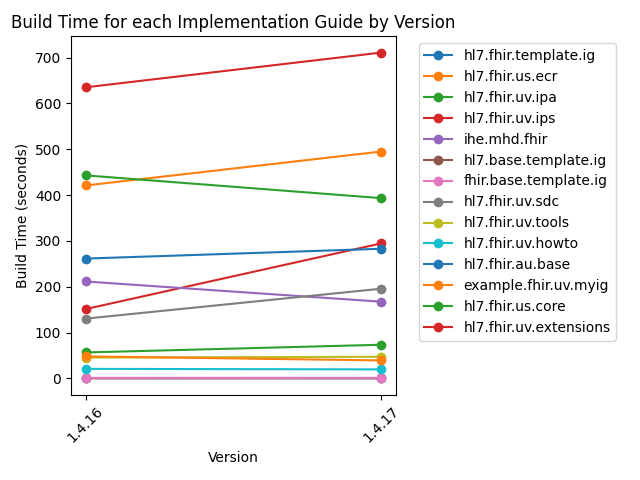
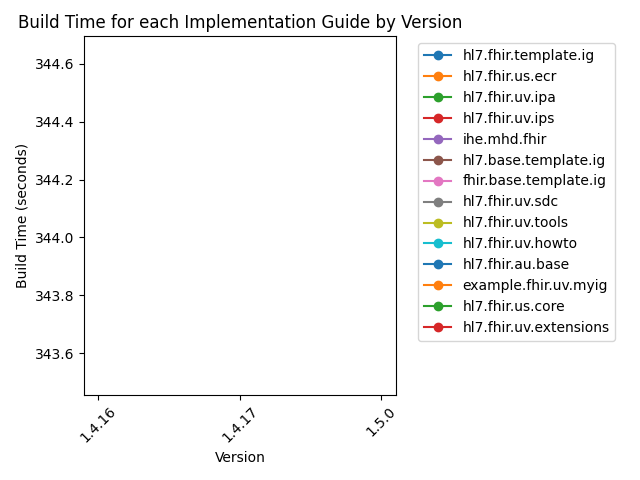
update to plot-ig-builder and other scripts

diff --git a/scripts/plot-ig-builder.py b/scripts/plot-ig-builder.py
@@ -52,19 +52,27 @@ def main(source):
             build_times[guide_name][version] = time
 
     # Create the visualization
+    # Create a figure with a specific size (16x9 inches here) and an axes object
+    # Create a figure with the 'constrained_layout' feature enabled.
+    fig, ax = plt.subplots(figsize=(16, 9), constrained_layout=True)
+
     for guide, times in build_times.items():
         sorted_items = sorted(times.items())
         versions = [item[0] for item in sorted_items]
         timings = [item[1] for item in sorted_items]
 
-        plt.plot(versions, timings, marker='o', label=guide)
+        ax.plot(versions, timings, marker='o', label=guide)
 
-    plt.ylabel('Build Time (seconds)')  # Update label to reflect new units
-    plt.xlabel('Version')
-    plt.title('Build Time for each Implementation Guide by Version')
-    plt.legend(bbox_to_anchor=(1.05, 1), loc='upper left')
-    plt.xticks(rotation=45)
-    plt.tight_layout()
+    # Set labels, legend, etc.
+    ax.set_ylabel('Build Time (seconds)')
+    ax.set_xlabel('Version')
+    ax.set_title('Build Time for each Implementation Guide by Version')
+
+    plt.xticks(rotation=45)  # this still works on the current figure
+    plt.tight_layout()  # this affects the current figure, so it's okay
+
+    # If you are saving the figure, use the following command:
+    # fig.savefig('output.png', bbox_inches='tight')  # using `fig` instead of `plt`
     plt.show()
 
 if __name__ == "__main__":

diff --git a/scripts/fetch-parse-fhir-ig-list-and-all-editions-onecsv.py b/scripts/fetch-parse-fhir-ig-list-and-all-editions-onecsv.py
@@ -11,7 +11,7 @@
 # Note: not all packages (e.g. many IHE published profiles) have a package-list.json, and thus those would not have
 # any content in the CSV export
 # 
-# Export: this script writes the csv file to: ../data/all_packages_data.csv
+# Export: this script writes the csv file to: ../data/all-fhir-packages/all_packages_data.csv
 # 
 # Usage:
 # python3 fetch-parse-fhir-ig-list-and-all-editions-onecsv.py  
@@ -88,5 +88,5 @@ def fetch_and_process_guides(url, output_filename):
 
 if __name__ == "__main__":
     url = "https://raw.githubusercontent.com/FHIR/ig-registry/master/fhir-ig-list.json"
-    output_filename = "../data/all_packages_data.csv"
+    output_filename = "../data/all-fhir-packages/all_packages_data.csv"
     fetch_and_process_guides(url, output_filename)

diff --git a/scripts/plot-ig-builder-auto-dv.py b/scripts/plot-ig-builder-auto-dv.py
@@ -5,7 +5,7 @@
 #
 # Usage:
 # Run it from the command line, providing the path or URL as an argument.
-# If no argument is passed, it defaults to the github test-statistics URL
+# If NO argument is passed, it defaults to the github test-statistics URL
 #
 # For example:
 #   python script.py path/to/yourfile.json
@@ -60,9 +60,6 @@ def main(source):
 
     # The latest version is the last one in the sorted list
     latest_version = sorted_versions[-1]
-
-    # ... [The script continues here. The rest of the script remains unchanged.]
-
 
     # Construct the filename using the version number
     filename = f"{latest_version}.png"

diff --git a/scripts/standups.hl7.org-json-to-csv.py b/scripts/standups.hl7.org-json-to-csv.py
@@ -38,7 +38,7 @@ password = getpass.getpass("Remote Password (or skip for no auth): ")
 server = "http://standups.hl7.org/wp-json/wp/v2/posts"
 page = args.p
 params = "?_fields=title,date&per_page=100&order=asc&page="
-dataOutput = "standups.hl7.org" + page + ".csv"
+dataOutput = "../data/standups.hl7.org/standups.hl7.org" + page + ".csv"
 fhirHeader = {}
 #fhirHeader['Content-Type'] = "application/fhir+json;charset=utf-8"
 

diff --git a/scripts/parse-builds-web.py b/scripts/parse-builds-web.py
@@ -7,7 +7,7 @@
 # hooked up to the pipeline.
 
 # Usage:
-# python3 parse-builds-web.py -o builds/build-repos.csv
+# python3 parse-builds-web.py -o ../data/builds/build-repos.csv
 
 
 import csv
